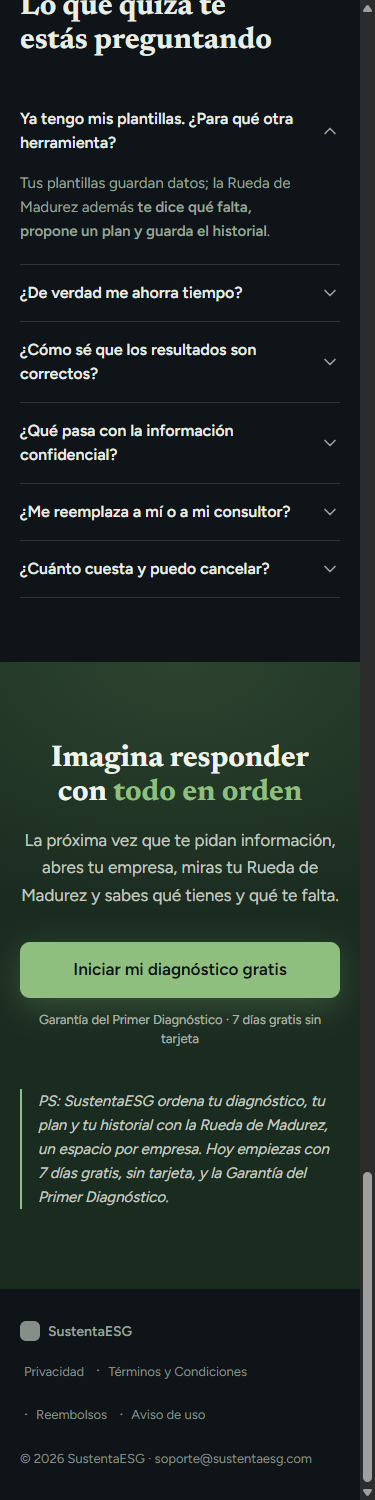
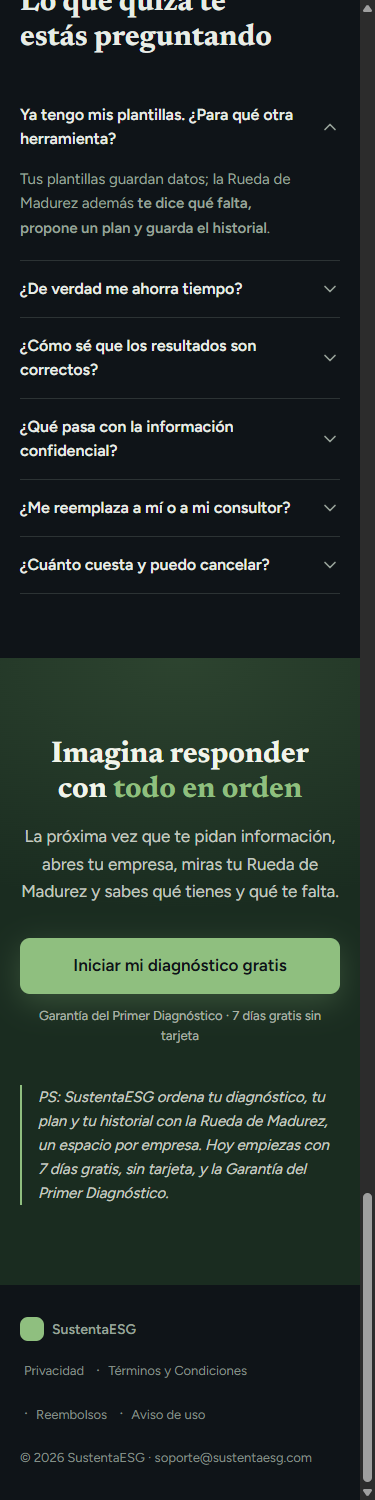
feat: ajustes de la landing tras revision (ejemplo de resultado, garantia 14 dias, un solo boton)

diff --git a/components/landing/EjemploResultado.tsx b/components/landing/EjemploResultado.tsx
@@ -1,0 +1,44 @@
+// Ejemplo de resultado (prueba concreta del mecanismo). Rotulado SIEMPRE como ejemplo:
+// la empresa y los puntajes son de muestra, no son resultados de ningún cliente (19 §5).
+
+const DIMENSIONES = [
+  { nombre: 'Ambiental', puntaje: '48,9', valor: 48.9, color: 'var(--rueda-1)', nota: 'Brecha: residuos y energía sin medición' },
+  { nombre: 'Social', puntaje: '61,3', valor: 61.3, color: 'var(--rueda-2)', nota: 'Fortaleza: bienestar y formación' },
+  { nombre: 'Gobernanza', puntaje: '52,0', valor: 52, color: 'var(--rueda-4)', nota: 'Brecha: evidencias sin ordenar' },
+  { nombre: 'Económica', puntaje: '66,7', valor: 66.7, color: 'var(--rueda-5)', nota: 'Fortaleza: control de desperdicios' },
+];
+
+export function EjemploResultado() {
+  return (
+    <figure className="rounded-[var(--radius-card)] border border-[color-mix(in_oklab,var(--text-tertiary)_30%,transparent)] bg-[var(--surface)] p-5 md:p-6">
+      <figcaption className="flex flex-wrap items-center justify-between gap-2">
+        <span className="text-xs font-semibold uppercase tracking-wider text-[var(--text-tertiary)]">
+          Ejemplo de resultado · empresa de ejemplo
+        </span>
+        <span className="rounded-full bg-[var(--chip-bg)] px-3 py-1 text-xs font-semibold text-[var(--accent)]">
+          57,2 de 100 · En desarrollo
+        </span>
+      </figcaption>
+      <ul className="mt-4 flex flex-col gap-4">
+        {DIMENSIONES.map((d) => (
+          <li key={d.nombre}>
+            <div className="flex items-baseline justify-between gap-3">
+              <span className="text-base font-semibold text-[var(--text-primary)]">{d.nombre}</span>
+              <span className="text-base font-semibold tabular-nums text-[var(--text-primary)] [font-family:var(--font-display)]">
+                {d.puntaje}
+              </span>
+            </div>
+            <div
+              role="img"
+              aria-label={`${d.nombre}: ${d.puntaje} de 100`}
+              className="mt-2 h-2 w-full overflow-hidden rounded-full bg-[var(--surface-2)]"
+            >
+              <div className="h-full rounded-full" style={{ width: `${d.valor}%`, background: d.color }} />
+            </div>
+            <p className="mt-2 text-sm text-[var(--text-secondary)]">{d.nota}</p>
+          </li>
+        ))}
+      </ul>
+    </figure>
+  );
+}

diff --git a/components/landing/LandingPage.tsx b/components/landing/LandingPage.tsx
@@ -5,6 +5,7 @@
 
 import { FileSpreadsheet, Repeat, SearchX } from 'lucide-react';
 import { Hero } from './Hero';
+import { EjemploResultado } from './EjemploResultado';
 import { HeroVisual } from './HeroVisual';
 import { Problema } from './Problema';
 import { Agitacion } from './Agitacion';
@@ -28,7 +29,7 @@ export function LandingPage() {
         subtitleMarked="Tu [b]Rueda de Madurez[/b] muestra qué tienes, qué te falta y qué hacer primero."
         ctaLabel={CTA_LABEL}
         ctaHref={CTA_HREF}
-        socialProof={<span>7 días de prueba · sin tarjeta · un espacio por empresa</span>}
+        socialProof={<span>ESG: ambiental, social y de gobernanza · 7 días gratis · sin tarjeta</span>}
         visual={<HeroVisual />}
       />
 
@@ -61,6 +62,7 @@ export function LandingPage() {
           { titulo: 'Prioriza', detalle: 'Ve tu puntaje por dimensión, tus brechas y un plan con responsable y fecha.' },
           { titulo: 'Demuestra avance', detalle: 'Actualiza cuando quieras y compara tus resultados entre periodos.' },
         ]}
+        ejemplo={<EjemploResultado />}
         antesDespues={{
           labelAntes: 'Antes',
           antes: 'Datos en varios archivos, versiones sueltas y un informe armado a las carreras.',
@@ -90,7 +92,7 @@ export function LandingPage() {
       {/* 7. GARANTÍA */}
       <Garantia
         nombre="la Garantía del Primer Diagnóstico"
-        condicionMarked="Pruebas 7 días gratis y, solo si decides pagar, tienes 7 días más para pedir tu reembolso. [b]Si tu primer diagnóstico no te sirve, te devolvemos tu dinero[/b]. Sin preguntas."
+        condicionMarked="Pruebas 7 días gratis y, solo si decides pagar, tienes 14 días para pedir tu reembolso. [b]Si tu primer diagnóstico no te sirve, te devolvemos tu dinero[/b]. Sin preguntas."
         pisoLegal="Un correo basta para pedirlo"
       />
 
@@ -142,6 +144,7 @@ export function LandingPage() {
       {/* 10. FOOTER LEGAL — todas las páginas enlazadas existen */}
       <FooterLegal
         appName={APP_NAME}
+        logo={<span aria-hidden="true" className="size-6 rounded-[8px] bg-[var(--accent)]" />}
         soporteEmail={SOPORTE_EMAIL}
         anio={ANIO_COPYRIGHT}
         enlaces={[

diff --git a/components/landing/OfertaPorPerfil.tsx b/components/landing/OfertaPorPerfil.tsx
@@ -6,7 +6,7 @@
 
 import { useState } from 'react';
 import { Oferta, type OfertaProps } from './Oferta';
-import { CTA_HREF, TRIAL_DIAS } from '@/lib/site';
+import { CTA_HREF, CTA_LABEL, TRIAL_DIAS } from '@/lib/site';
 
 type Perfil = 'empresa' | 'consultor';
 
@@ -19,7 +19,7 @@ const PLANES: Record<Perfil, Pick<OfertaProps, 'anual' | 'mensual'>> = {
       totalAnual: 'Se cobra US$60/año',
       ahorro: '5 meses gratis',
       descomposicionDia: 'menos de US$0,17 al día',
-      ctaLabel: 'Empezar mis 7 días gratis',
+      ctaLabel: CTA_LABEL,
       ctaHref: CTA_HREF,
       features: [
         'Diagnóstico completo de las cuatro dimensiones',
@@ -31,7 +31,7 @@ const PLANES: Record<Perfil, Pick<OfertaProps, 'anual' | 'mensual'>> = {
     mensual: {
       nombre: 'Mensual',
       precioMes: 'US$9',
-      ctaLabel: 'Empezar mis 7 días gratis',
+      ctaLabel: CTA_LABEL,
       ctaHref: CTA_HREF,
       features: [
         'Diagnóstico completo de las cuatro dimensiones',
@@ -49,7 +49,7 @@ const PLANES: Record<Perfil, Pick<OfertaProps, 'anual' | 'mensual'>> = {
       totalAnual: 'Se cobra US$70/año',
       ahorro: '7 meses gratis',
       descomposicionDia: 'menos de US$0,20 al día',
-      ctaLabel: 'Empezar mis 7 días gratis',
+      ctaLabel: CTA_LABEL,
       ctaHref: CTA_HREF,
       features: [
         'Todo lo del plan Empresa',
@@ -61,7 +61,7 @@ const PLANES: Record<Perfil, Pick<OfertaProps, 'anual' | 'mensual'>> = {
     mensual: {
       nombre: 'Mensual',
       precioMes: 'US$15',
-      ctaLabel: 'Empezar mis 7 días gratis',
+      ctaLabel: CTA_LABEL,
       ctaHref: CTA_HREF,
       features: [
         'Todo lo del plan Empresa',

diff --git a/components/landing/Solucion.tsx b/components/landing/Solucion.tsx
@@ -7,6 +7,7 @@
 // (tupla en el tipo: ni 2 ni 4) + antes/después opcional. Pasos entran
 // escalonados (whileInView + stagger, reduced-motion respetado).
 
+import type { ReactNode } from 'react';
 import { motion } from 'motion/react';
 import { Accent, Hairline, Kicker, SectionShell, useReveal, VIEWPORT_ONCE } from './ui';
 import { MarkedCopy, warnCopy } from './MarkedCopy';
@@ -36,6 +37,8 @@ export interface SolucionProps {
     labelDespues: string;
     despues: string;
   };
+  /** Ejemplo de resultado (prueba concreta del mecanismo), rotulado como ejemplo por quien lo pasa. */
+  ejemplo?: ReactNode;
   id?: string;
 }
 
@@ -46,6 +49,7 @@ export function Solucion({
   bigIdeaMarked,
   pasos,
   antesDespues,
+  ejemplo,
   id,
 }: SolucionProps) {
   warnCopy('Solución → título', tituloMarked, 8);
@@ -99,6 +103,8 @@ export function Solucion({
             </motion.li>
           ))}
         </ol>
+
+        {ejemplo && <motion.div variants={item} className="mt-10">{ejemplo}</motion.div>}
 
         {antesDespues && (
           <motion.div variants={item} className="mt-10 grid grid-cols-1 gap-3 sm:grid-cols-2">

diff --git a/components/landing/AppPorDentro.tsx b/components/landing/AppPorDentro.tsx
@@ -140,7 +140,7 @@ export function AppPorDentro({
                 onClick={() => irA(i)}
                 aria-label={`Ir a: ${f.label}`}
                 aria-current={activo === i ? 'true' : undefined}
-                className="flex size-6 items-center justify-center [touch-action:manipulation]"
+                className="flex size-11 items-center justify-center [touch-action:manipulation]"
               >
                 <span
                   className={`size-2 rounded-full transition-colors duration-200 ${

diff --git a/app/reembolsos/page.tsx b/app/reembolsos/page.tsx
@@ -13,7 +13,7 @@ export default function Reembolsos() {
           titulo: 'La Garantía del Primer Diagnóstico',
           contenido: (
             <p>
-              Si pagas y tu primer diagnóstico no te sirve, escríbenos dentro de los primeros 7 días desde tu compra
+              Si pagas y tu primer diagnóstico no te sirve, escríbenos dentro de los primeros 14 días desde tu compra
               y te devolvemos tu dinero, sin preguntas.
             </p>
           ),

diff --git a/docs/revisiones/landing-veredicto.md b/docs/revisiones/landing-veredicto.md
@@ -1,9 +1,10 @@
 # VEREDICTO revisor-visual — landing
-Fecha: 2026-10-21 12:00
+Fecha: 2026-10-21 15:00
 Screenshot: docs/revisiones/landing-375.png
-Usabilidad: 28/40
+Usabilidad: 31/40
 Craft: 15/20
-Copy (si vende): 14/20
+Copy (si vende): 16/20
 Fidelidad (si hubo referencia): N-A
 Veredicto: NO LISTA
-Top defectos: 1) Redundancia y longitud en Problema/Agitación/Solución: 5 preguntas + 4 frases + dos cajas "Hoy / Si nada cambia" y luego otra "Antes / Después" que repite el mismo texto; recortar a una sola. 2) Especificidad pobre: cero número o prueba verificable fuera del precio (sin demo real, sin cifra de tiempo, sin ejemplo de resultado); añadir un ejemplo concreto de hallazgo con números de la Rueda y un caso de uso real, sin inventar clientes. 3) Inconsistencia de CTAs en Oferta: "Empezar mis 7 días gratis" vs "Elegir mensual" (el mensual también muestra badge 7 días gratis); unificar en primera persona con beneficio. 4) Garantía de reembolso a 7 días junto a prueba gratis sin tarjeta confunde (¿qué se devuelve si no pagas aún?) y cita "Hotmart" (jerga de plataforma); aclarar el orden prueba, cobro, garantía. 5) Pulido: logo del pie gris vs verde del encabezado, puntos del carrusel muy pequeños para tocar, sin flechas ni teclado visibles en el carrusel, tablist de plan sin manejo de teclas.
+Puntuacion anterior (1a revision): Usabilidad 28/40, Craft 15/20, Copy 14/20.
+Top defectos: 1) Usabilidad 31/40 < 36: ningun criterio alcanza 4 y no hay verificacion de estados de error/vacio/offline en la landing; el gate de 36 exige criterios ejemplares en h1, h9, h10 (feedback del selector y del CTA, errores del enlace de pago, ayuda contextual). 2) Craft 15/20 < 16: el logo del pie sigue gris frente al verde del encabezado (encaje/identidad), puntos del carrusel de ~6px intocables (<44px), vistas previas con revelado semitransparente; el kit no se "salva" por ser del SO, se corrige. 3) CTAs con dos etiquetas: "Iniciar mi diagnostico gratis" (hero/sticky/final) vs "Empezar mis 7 dias gratis" (oferta); unificar en una sola frase en primera persona. 4) Especificidad: sigue sin prueba verificable (sin captura de un hallazgo real con numeros ni demo); las vistas previas son "del diseno" y el FAQ de tiempo no da cifra; agregar un ejemplo de hallazgo de la Rueda con puntajes de muestra rotulados como ejemplo. 5) Sigla "ESG" y "Rueda de Madurez" sin definir en una linea en el hero para quien no es experto.

diff --git a/docs/copy/landing.md b/docs/copy/landing.md
@@ -10,7 +10,7 @@
 - H1: Deja de [acento]reconstruir tus datos[/acento] de sostenibilidad  *(7 palabras)*
 - Subtítulo: Tu [b]Rueda de Madurez[/b] muestra qué tienes, qué te falta y qué hacer primero.  *(14 palabras)*
 - CTA: Iniciar mi diagnóstico gratis
-- Franja: 7 días de prueba · sin tarjeta · un espacio por empresa
+- Franja: ESG: ambiental, social y de gobernanza · 7 días gratis · sin tarjeta
 - Visual: la Rueda de Madurez sobre el paisaje de datos (imagen propia de la app)
 
 ## 2. PROBLEMA  (traza: dolores 1, 2, 6 — se recortó de 5 a 3 preguntas por redundancia)
@@ -22,7 +22,7 @@
 - Cada pedido de información te obliga a [b]volver a juntar los mismos datos[/b].
 - Mientras buscas la última versión, [acento]se va el tiempo[/acento] que podrías dedicar a mejorar.
 - Las plantillas guardan datos, pero [b]no te dicen qué falta ni qué hacer primero[/b].
-(Se quitó la caja «Hoy / Si nada cambia»: el contraste vive solo en la solución, en «Antes / Después».)
+(Se mantienen 3 frases. Se quitó la caja «Hoy / Si nada cambia»: el contraste vive solo en la solución, en «Antes / Después».)
 
 ## 4. SOLUCIÓN  (traza: Big Idea + deseos 2 y 3 · mecanismo en 3 pasos reales de la app)
 - Título: Tu sostenibilidad, [acento]ordenada una sola vez[/acento]
@@ -51,7 +51,7 @@
 
 ## 7. GARANTÍA  (traza: miedo a gastar en otro software que no use)
 - Nombre: la Garantía del Primer Diagnóstico
-- Condición: Pruebas 7 días gratis y, solo si decides pagar, tienes 7 días más para pedir tu reembolso. [b]Si tu primer diagnóstico no te sirve, te devolvemos tu dinero[/b]. Sin preguntas.
+- Condición: Pruebas 7 días gratis y, solo si decides pagar, tienes 14 días para pedir tu reembolso. [b]Si tu primer diagnóstico no te sirve, te devolvemos tu dinero[/b]. Sin preguntas.
 - Piso: Un correo basta para pedirlo  *(⚠ configurar y verificar la garantía de 7 días en Hotmart antes de publicar; el nombre de la pasarela solo aparece en Reembolsos)*
 
 ## 8. FAQ  (traza: objeciones 1–6 de la ficha + precio)

diff --git a/ESTADO.md b/ESTADO.md
@@ -96,3 +96,9 @@ Tu OK a la Etapa 0 → Etapa 1 (identidad visual): pregunta de referencia + 3 es
 - Revisión independiente (revisor-visual): 1.ª ronda NO LISTA (28/40 · 15/20 · copy 14/20) → corregido: Problema 3 preguntas, Agitación 2 frases sin caja duplicada, datos reales del producto en la solución (≈40 preguntas), ambos botones de la oferta iguales, garantía con secuencia clara sin nombrar la pasarela, flechas de teclado en el selector. 2.ª ronda en curso. Veredicto: docs/revisiones/landing-veredicto.md.
 - Pendientes (anotados, no bloquean esta etapa): ⚠ imágenes del carrusel = vistas previas del diseño (reemplazar por capturas reales al terminar la app, paso obligatorio) · ⚠ correo de soporte soporte@sustentaesg.com es provisional (depende de comprar el dominio) · ⚠ garantía de 7 días y comisión: configurar y verificar en Hotmart antes de publicar · ⚠ páginas legales en borrador: revisión de abogado (Ley 1581) · ⚠ precios US$9/60 y 15/70 son hipótesis.
 - npm outdated (2026-10-21): majors NO adoptadas a propósito: eslint 10, typescript 7, @types/node 26 (se mantienen las del scaffold hasta tener la app construida). react 19.3.1 es parche. npm audit (producción): 0 vulnerabilidades.
+
+
+## Problemas conocidos
+- garantía: la página promete la Garantía del Primer Diagnóstico (14 días desde la compra; prueba de 7 días en la app). Plazos anotados en FICHA-MERCADO.md (Prueba elegida: 7 · Garantía elegida: 14) pero SIN verificar en Hotmart: se verifica y configura antes de publicar; si Hotmart no lo permite, se quita la garantía del copy. Bloquea PUBLICAR, no la construcción.
+- FICHA-MERCADO: plazos de garantía de Hotmart, comisión y comportamiento de PSE sin verificar (requiere cuenta de Hotmart).
+- direcciones-abc / vista-previa / veredicto: la revisión independiente de la landing sigue en NO LISTA (3.ª ronda pendiente) — ver docs/revisiones/landing-veredicto.md.

diff --git a/FICHA-MERCADO.md b/FICHA-MERCADO.md
@@ -34,7 +34,10 @@
 ## 4. PRUEBA Y GARANTÍA
 - Hotmart permite planes con prueba gratuita ("gratis" o "test-drive" con primer cobro al final) | help.hotmart.com | 2026-10-20. Si exige tarjeta: NO CONFIRMADO.
 - **Decisión:** prueba de 7 días DENTRO de la app (sin tarjeta, sin cobro automático — lo pide tu Contexto.docx), antes de cualquier compra en Hotmart. La duración queda como variable configurable.
-- Garantía: plazos que Hotmart permite: NO VERIFICADO (se confirma en el checkout real, ver 18). Regla: la garantía arranca con la compra, así que no choca con la prueba.
+- Prueba elegida: 7 días (dentro de la app, sin tarjeta y sin cobro automático; antes de cualquier compra).
+- Garantía elegida: 14 días (corre desde la compra; decisión de Claude, informada al usuario el 2026-10-21; ajustable).
+- Comprobación (regla de 18): garantía 14 > prueba 7 → SÍ.
+- ⚠ SIN VERIFICAR: que Hotmart permita configurar 14 días de garantía y desde cuándo cuenta (adhesión o primer cobro). Se confirma en el panel de Hotmart ANTES de publicar. Si no lo permite, la garantía se QUITA del copy (regla de 18) o se ajusta el plazo al máximo permitido que supere la prueba.
 - ⚠ 7 días puede ser corto: llenar ~40 preguntas con datos de un cliente toma más. Si en la beta pocos terminan el diagnóstico en 7 días, probar 14.
 
 ## 5. CONVERSIÓN ESPERABLE
